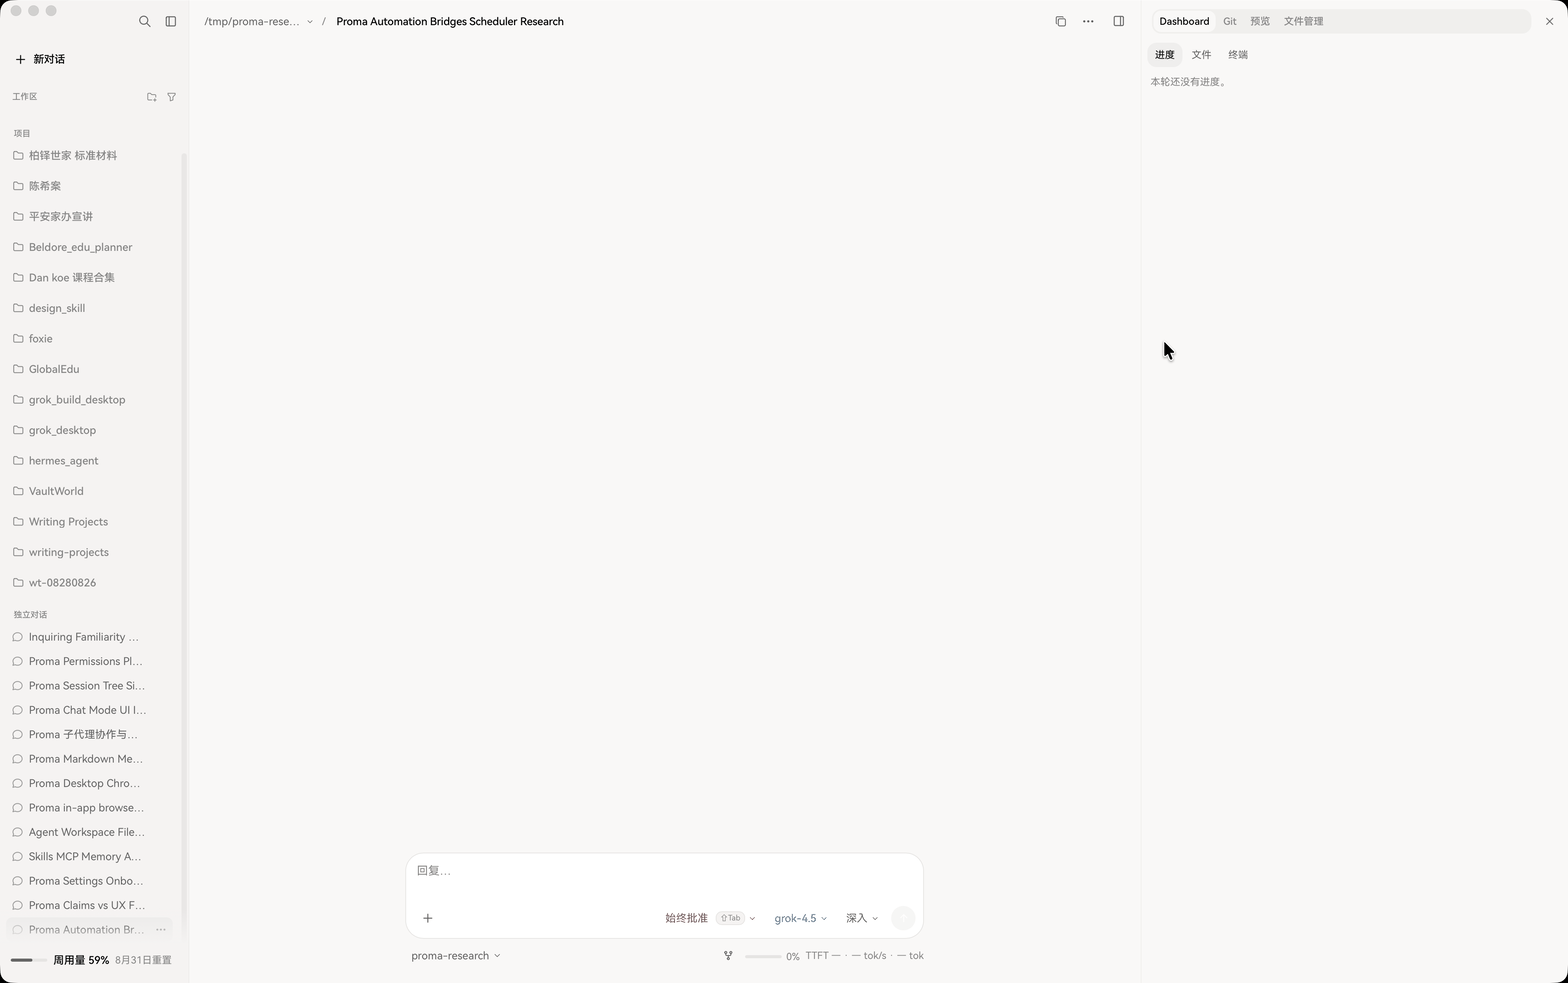
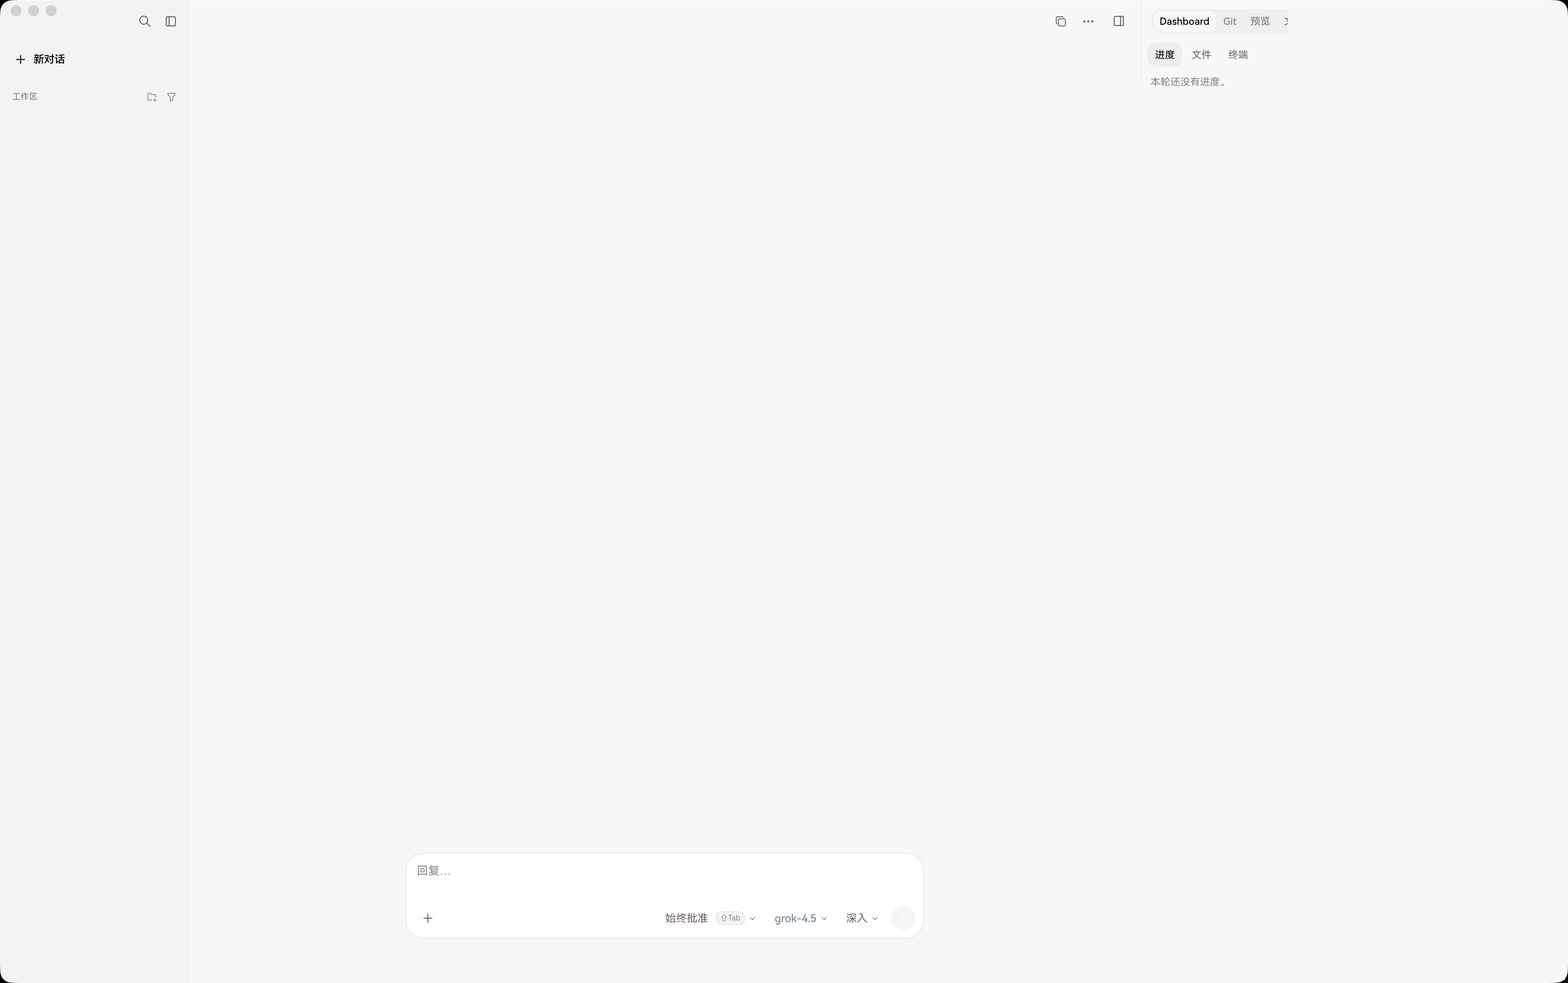
docs: ship empty-state README shots and drop live UI audit PNGs
Public screenshots were showing a real workspace sidebar, session titles, and file paths. README now uses blank chrome only; audit captures stay local.

diff --git a/README.md b/README.md
@@ -30,16 +30,18 @@
 </p>
 
 <p align="center">
-  <img src="docs/readme/hero.png" alt="Main window: projects, empty thread, composer">
+  <img src="docs/readme/hero.png" alt="Empty workbench: new chat, workspace chrome, composer">
 </p>
 
 This is a **community** desktop client. It is not an official xAI, Anthropic, OpenAI, or Moonshot product.
 
 ## Preview
 
+Empty-state captures. No real projects, sessions, or file names.
+
 | Chat | Git | Dashboard |
 | :---: | :---: | :---: |
-| <img src="docs/readme/preview-main.png" alt="Main window"> | <img src="docs/readme/preview-git.png" alt="Git rail"> | <img src="docs/readme/preview-dashboard.png" alt="Session dashboard"> |
+| <img src="docs/readme/preview-main.png" alt="Empty main window"> | <img src="docs/readme/preview-git.png" alt="Git rail, empty"> | <img src="docs/readme/preview-dashboard.png" alt="Dashboard empty state"> |
 
 ## Why this exists
 
